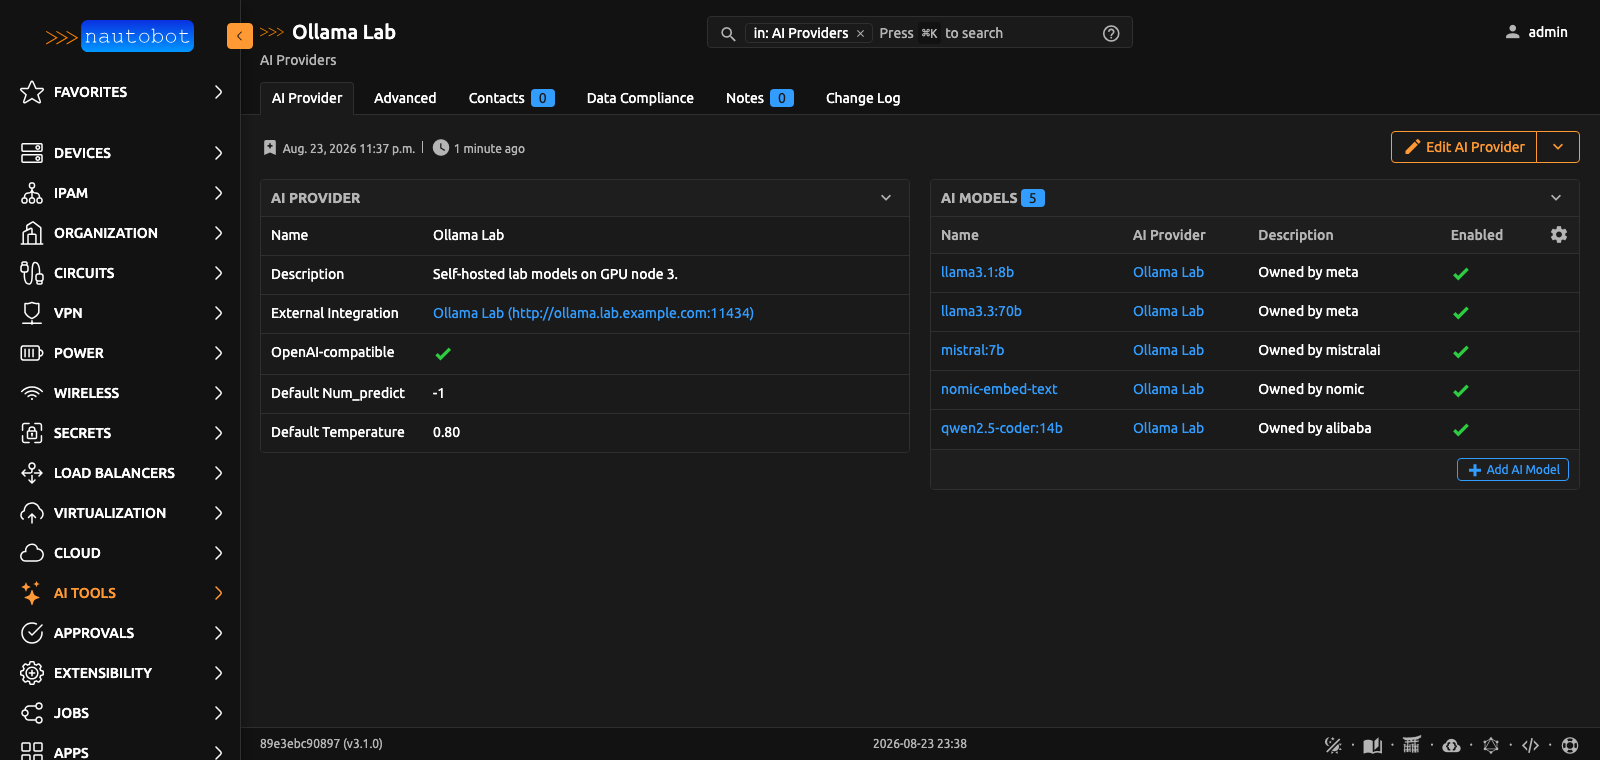
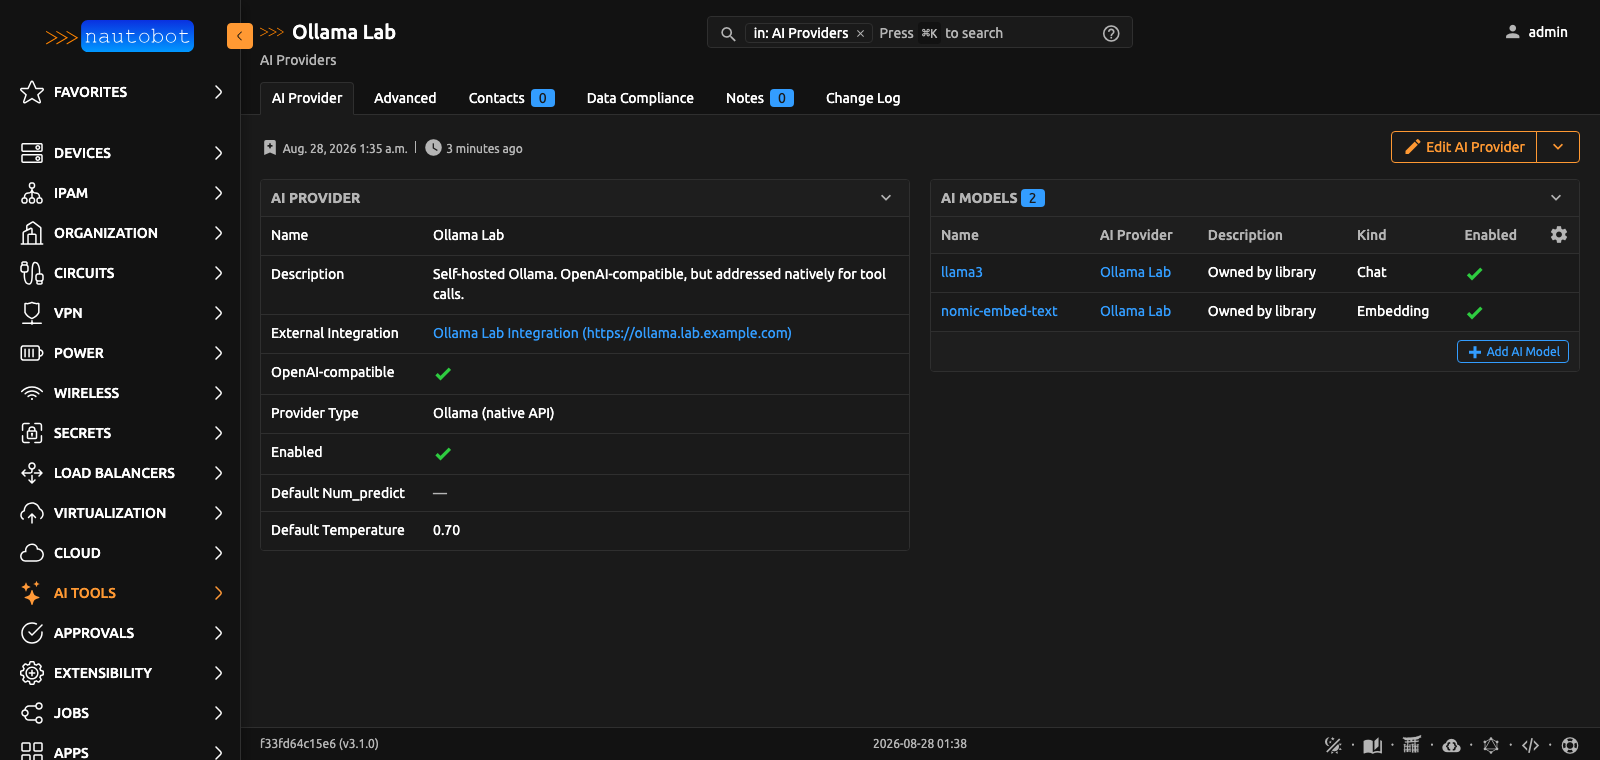
Refresh every screenshot, and enrich the demo data behind them
The demo data now exercises what the screenshots need to show. Three
providers cover three dialects, one of them disabled and one of them
Ollama, which is the case where provider_type and openai_compatible
disagree. The models carry a kind, a price, and default parameters. One
MCP server carries what a discovery run would have reported, and its
three tools cover the three annotation states.

Point take_screenshots.py at those names. It searched for records that no
seed script created, so the detail shots could not be reproduced.

Captured with Playwright against the development stack, in both themes.
The job-result shot comes from a real Discover AI Models run against a
local catalog endpoint; the integration URL is a public one again in the
committed images.

Claude-Session: https://claude.ai/code/session_01Pa8txbPRWNXccL5U7dPyKz

diff --git a/nautobot_ai_models/management/commands/generate_nautobot_ai_models_test_data.py b/nautobot_ai_models/management/commands/generate_nautobot_ai_models_test_data.py
@@ -2,37 +2,172 @@
 
 from django.core.management.base import BaseCommand
 from django.db import DEFAULT_DB_ALIAS
+from django.utils import timezone
 from nautobot.extras.models import ExternalIntegration
 
 from nautobot_ai_models.choices import AIModelKindChoices, AIProviderTypeChoices, MCPTransportChoices
 from nautobot_ai_models.models import AIModel, AIProvider, MCPServer, MCPTool
+from nautobot_ai_models.services.mcp import ToolDefinition, definition_fingerprint
 
-INTEGRATION_NAME = "AI Models Demo Integration"
+INTEGRATIONS = (
+    ("AI Models Demo Integration", "https://llm.example.com/v1"),
+    ("Ollama Lab Integration", "https://ollama.lab.example.com"),
+    ("Anthropic Demo Integration", ""),
+    ("Nautobot MCP Integration", "https://mcp.example.com/mcp"),
+)
 
 PROVIDERS = (
-    (
-        "Demo OpenAI",
-        AIProviderTypeChoices.OPENAI,
-        True,
-        (("gpt-4o", AIModelKindChoices.CHAT), ("text-embedding-3-small", AIModelKindChoices.EMBEDDING)),
-    ),
-    (
-        "Demo Ollama",
-        AIProviderTypeChoices.OLLAMA,
-        True,
-        (("llama3", AIModelKindChoices.CHAT), ("nomic-embed-text", AIModelKindChoices.EMBEDDING)),
-    ),
-    ("Demo Custom", AIProviderTypeChoices.ANTHROPIC, False, ()),
+    {
+        "name": "OpenAI Production",
+        "description": "The hosted OpenAI API.",
+        "integration": "AI Models Demo Integration",
+        "provider_type": AIProviderTypeChoices.OPENAI,
+        "openai_compatible": True,
+        "enabled": True,
+        "temperature": "0.20",
+        "models": (
+            {
+                "name": "gpt-4o-mini",
+                "description": "Owned by openai",
+                "kind": AIModelKindChoices.CHAT,
+                "input_cost_per_million": "0.1500",
+                "output_cost_per_million": "0.6000",
+                "default_parameters": {"seed": 7, "top_p": 0.9},
+            },
+            {
+                "name": "gpt-4o",
+                "description": "Owned by openai",
+                "kind": AIModelKindChoices.CHAT,
+                "input_cost_per_million": "2.5000",
+                "output_cost_per_million": "10.0000",
+                "default_parameters": {},
+            },
+            {
+                "name": "text-embedding-3-small",
+                "description": "Owned by openai",
+                "kind": AIModelKindChoices.EMBEDDING,
+                "input_cost_per_million": "0.0200",
+                "output_cost_per_million": None,
+                "default_parameters": {},
+            },
+        ),
+    },
+    {
+        "name": "Ollama Lab",
+        "description": "Self-hosted Ollama. OpenAI-compatible, but addressed natively for tool calls.",
+        "integration": "Ollama Lab Integration",
+        "provider_type": AIProviderTypeChoices.OLLAMA,
+        "openai_compatible": True,
+        "enabled": True,
+        "temperature": "0.70",
+        "models": (
+            {
+                "name": "llama3",
+                "description": "Owned by library",
+                "kind": AIModelKindChoices.CHAT,
+                "input_cost_per_million": None,
+                "output_cost_per_million": None,
+                "default_parameters": {"top_k": 40, "top_p": 0.9, "seed": 42},
+            },
+            {
+                "name": "nomic-embed-text",
+                "description": "Owned by library",
+                "kind": AIModelKindChoices.EMBEDDING,
+                "input_cost_per_million": None,
+                "output_cost_per_million": None,
+                "default_parameters": {},
+            },
+        ),
+    },
+    {
+        "name": "Anthropic Retired",
+        "description": "Out of service. The contract lapsed.",
+        "integration": "Anthropic Demo Integration",
+        "provider_type": AIProviderTypeChoices.ANTHROPIC,
+        "openai_compatible": False,
+        "enabled": False,
+        "temperature": None,
+        "models": (
+            {
+                "name": "claude-sonnet-4",
+                "description": "",
+                "kind": AIModelKindChoices.CHAT,
+                "input_cost_per_million": "3.0000",
+                "output_cost_per_million": "15.0000",
+                "default_parameters": {},
+            },
+        ),
+    },
+)
+
+TOOLS = (
+    {
+        "name": "get_device",
+        "title": "Get Device",
+        "description": "Return one device by name, with its location, its role, and its interfaces.",
+        "input_schema": {
+            "type": "object",
+            "properties": {"name": {"type": "string", "description": "The device name."}},
+            "required": ["name"],
+        },
+        "output_schema": {"type": "object", "properties": {"device": {"type": "object"}}},
+        "writable": False,
+        "advertised_read_only": True,
+    },
+    {
+        "name": "set_interface_description",
+        "title": "Set Interface Description",
+        "description": "Change the description of one interface.",
+        "input_schema": {
+            "type": "object",
+            "properties": {"interface_id": {"type": "string"}, "description": {"type": "string"}},
+            "required": ["interface_id", "description"],
+        },
+        "output_schema": {},
+        "writable": True,
+        "advertised_read_only": False,
+    },
+    {
+        "name": "run_report",
+        "title": "Run Report",
+        "description": "Run a saved report. The server made no claim about whether this writes.",
+        "input_schema": {"type": "object", "properties": {"report": {"type": "string"}}},
+        "output_schema": {},
+        "writable": True,
+        "advertised_read_only": None,
+    },
 )
 
 MCP_SERVERS = (
-    ("Demo MCP Gateway", MCPTransportChoices.TYPE_STREAMABLE_HTTP, ("get_device", "set_interface")),
-    ("Demo MCP Local", MCPTransportChoices.TYPE_STDIO, ()),
+    {
+        "name": "Nautobot MCP",
+        "description": "The MCP server that fronts this Nautobot.",
+        "integration": "Nautobot MCP Integration",
+        "transport": MCPTransportChoices.TYPE_STREAMABLE_HTTP,
+        "enabled": True,
+        "discovered": {
+            "protocol_version": "2025-06-18",
+            "server_name": "nautobot-mcp",
+            "server_version": "0.4.1",
+            "instructions": "Read a device before you change one. Every write needs an approval.",
+            "capabilities": {"tools": {"listChanged": True}, "resources": {"subscribe": False}},
+        },
+        "tools": TOOLS,
+    },
+    {
+        "name": "Local Toolbox",
+        "description": "A stdio server. A Nautobot worker cannot reach one, so its tools are entered by hand.",
+        "integration": "Nautobot MCP Integration",
+        "transport": MCPTransportChoices.TYPE_STDIO,
+        "enabled": True,
+        "discovered": None,
+        "tools": (),
+    },
 )
 
 
 class Command(BaseCommand):
-    """Populate the database with various data as a baseline for testing (automated or manual)."""
+    """Populate the database with demonstration data for manual testing and for the screenshots."""
 
     help = __doc__
 
@@ -49,49 +184,116 @@ class Command(BaseCommand):
             help="Flush any existing AI Models test data from the database before generating new data.",
         )
 
-    def _generate_static_data(self, db):
-        """Generate static data required for test cases."""
-        integration, _ = ExternalIntegration.objects.using(db).get_or_create(
-            name=INTEGRATION_NAME,
-            defaults={"remote_url": "https://llm.example.com/v1", "verify_ssl": True, "timeout": 30},
-        )
+    def _integrations(self, db):
+        """Create the demonstration External Integrations.
 
-        for name, provider_type, openai_compatible, model_specs in PROVIDERS:
-            provider, _ = AIProvider.objects.using(db).get_or_create(
+        Args:
+            db: The database alias to write to.
+
+        Returns:
+            dict: Each integration, keyed by name.
+        """
+        integrations = {}
+        for name, remote_url in INTEGRATIONS:
+            integration, _ = ExternalIntegration.objects.using(db).get_or_create(
                 name=name,
+                defaults={"remote_url": remote_url, "verify_ssl": True, "timeout": 30},
+            )
+            integrations[name] = integration
+        return integrations
+
+    def _generate_static_data(self, db):
+        """Generate the demonstration records.
+
+        Args:
+            db: The database alias to write to.
+        """
+        integrations = self._integrations(db)
+
+        for spec in PROVIDERS:
+            provider, _ = AIProvider.objects.using(db).get_or_create(
+                name=spec["name"],
                 defaults={
-                    "external_integration": integration,
-                    "provider_type": provider_type,
-                    "openai_compatible": openai_compatible,
+                    "description": spec["description"],
+                    "external_integration": integrations[spec["integration"]],
+                    "provider_type": spec["provider_type"],
+                    "openai_compatible": spec["openai_compatible"],
+                    "enabled": spec["enabled"],
+                    "temperature": spec["temperature"],
                 },
             )
-            for model_name, kind in model_specs:
-                AIModel.objects.using(db).get_or_create(provider=provider, name=model_name, defaults={"kind": kind})
+            for model_spec in spec["models"]:
+                AIModel.objects.using(db).get_or_create(
+                    provider=provider,
+                    name=model_spec["name"],
+                    defaults={
+                        "description": model_spec["description"],
+                        "kind": model_spec["kind"],
+                        "input_cost_per_million": model_spec["input_cost_per_million"],
+                        "output_cost_per_million": model_spec["output_cost_per_million"],
+                        "default_parameters": model_spec["default_parameters"],
+                    },
+                )
 
-        for name, transport, tool_names in MCP_SERVERS:
-            server, _ = MCPServer.objects.using(db).get_or_create(
-                name=name,
-                defaults={"external_integration": integration, "transport": transport},
-            )
-            for tool_name in tool_names:
-                MCPTool.objects.using(db).get_or_create(mcp_server=server, name=tool_name)
+        now = timezone.now()
+        for spec in MCP_SERVERS:
+            defaults = {
+                "description": spec["description"],
+                "external_integration": integrations[spec["integration"]],
+                "transport": spec["transport"],
+                "enabled": spec["enabled"],
+            }
+            if spec["discovered"]:
+                defaults.update(spec["discovered"])
+                defaults["last_discovered_at"] = now
+            server, _ = MCPServer.objects.using(db).get_or_create(name=spec["name"], defaults=defaults)
+
+            for tool_spec in spec["tools"]:
+                MCPTool.objects.using(db).get_or_create(
+                    mcp_server=server,
+                    name=tool_spec["name"],
+                    defaults={
+                        "title": tool_spec["title"],
+                        "description": tool_spec["description"],
+                        "input_schema": tool_spec["input_schema"],
+                        "output_schema": tool_spec["output_schema"],
+                        "writable": tool_spec["writable"],
+                        "advertised_read_only": tool_spec["advertised_read_only"],
+                        "definition_fingerprint": definition_fingerprint(
+                            ToolDefinition(
+                                name=tool_spec["name"],
+                                title=tool_spec["title"],
+                                description=tool_spec["description"],
+                                input_schema=tool_spec["input_schema"],
+                                output_schema=tool_spec["output_schema"],
+                                read_only_hint=tool_spec["advertised_read_only"],
+                            )
+                        ),
+                        "last_seen_at": now,
+                    },
+                )
 
     def _flush(self, db):
-        """Delete every object _generate_static_data creates."""
-        mcp_names = [name for name, _, _ in MCP_SERVERS]
-        MCPTool.objects.using(db).filter(mcp_server__name__in=mcp_names).delete()
-        MCPServer.objects.using(db).filter(name__in=mcp_names).delete()
-        provider_names = [name for name, _, _, _ in PROVIDERS]
+        """Delete every object _generate_static_data creates.
+
+        Args:
+            db: The database alias to delete from.
+        """
+        server_names = [spec["name"] for spec in MCP_SERVERS]
+        MCPTool.objects.using(db).filter(mcp_server__name__in=server_names).delete()
+        MCPServer.objects.using(db).filter(name__in=server_names).delete()
+
+        provider_names = [spec["name"] for spec in PROVIDERS]
         AIModel.objects.using(db).filter(provider__name__in=provider_names).delete()
         AIProvider.objects.using(db).filter(name__in=provider_names).delete()
-        ExternalIntegration.objects.using(db).filter(name=INTEGRATION_NAME).delete()
+
+        ExternalIntegration.objects.using(db).filter(name__in=[name for name, _ in INTEGRATIONS]).delete()
 
     def handle(self, *args, **options):
         """Entry point to the management command."""
+        db = options["database"]
         if options["flush"]:
-            self.stdout.write("Flushing existing AI Models test data...")
-            self._flush(db=options["database"])
-
-        self._generate_static_data(db=options["database"])
-
-        self.stdout.write(self.style.SUCCESS(f"Database {options['database']} populated with app data successfully!"))
+            self.stdout.write(self.style.WARNING("Flushing all existing AI Models test data..."))
+            self._flush(db)
+        self._generate_static_data(db)
+        self.stdout.write(self.style.SUCCESS("Database populated with AI Models test data successfully!"))

diff --git a/development/bin/take_screenshots.py b/development/bin/take_screenshots.py
@@ -17,7 +17,8 @@ Every view is captured twice, once per colour theme, and written as `<name>-ligh
 `<name>-dark.png`. The documentation shows the matching one through the `#only-light` and
 `#only-dark` fragments that mkdocs-material understands.
 
-The instance must already hold demonstration data. See docs/dev/dev_environment.md.
+The instance must already hold the demonstration data that `invoke generate-test-data` creates.
+The names below come from that command. See docs/dev/dev_environment.md.
 """
 
 import argparse
@@ -54,6 +55,8 @@ DETAIL_VIEWS = (
     ("mcp-server-detail", "/plugins/ai-models/mcp-servers/", "Nautobot MCP"),
     ("mcp-tool-detail", "/plugins/ai-models/mcp-tools/", "get_device"),
 )
+
+REQUIRED_DEMO_RECORDS = "invoke generate-test-data"
 
 
 def log(message):
